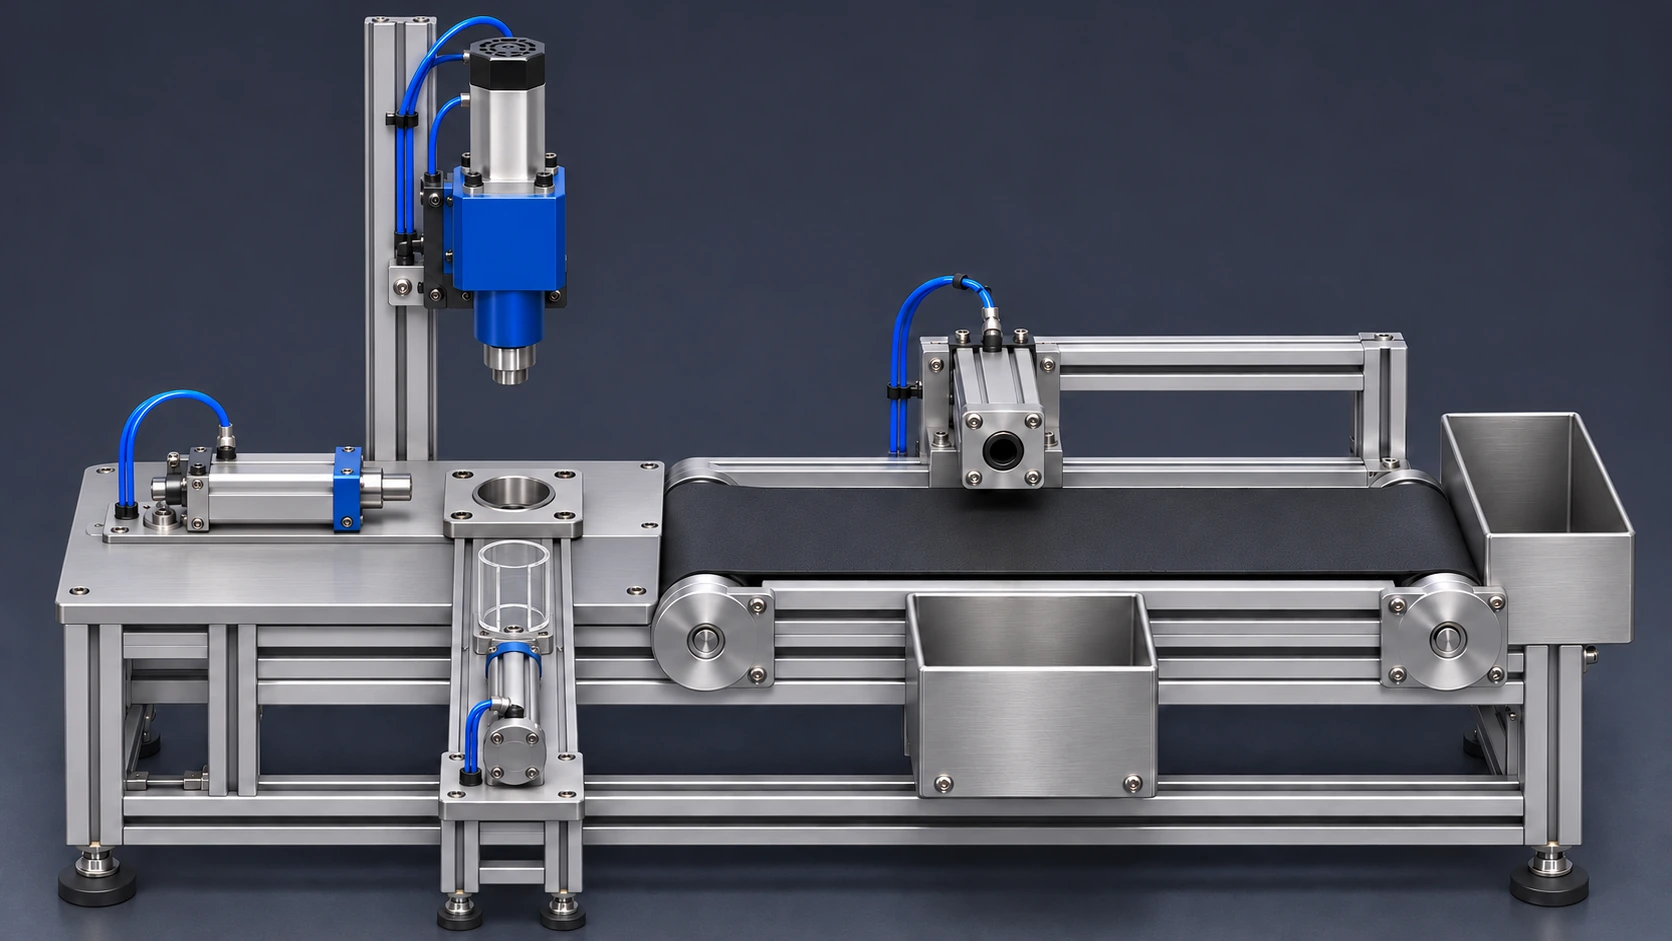
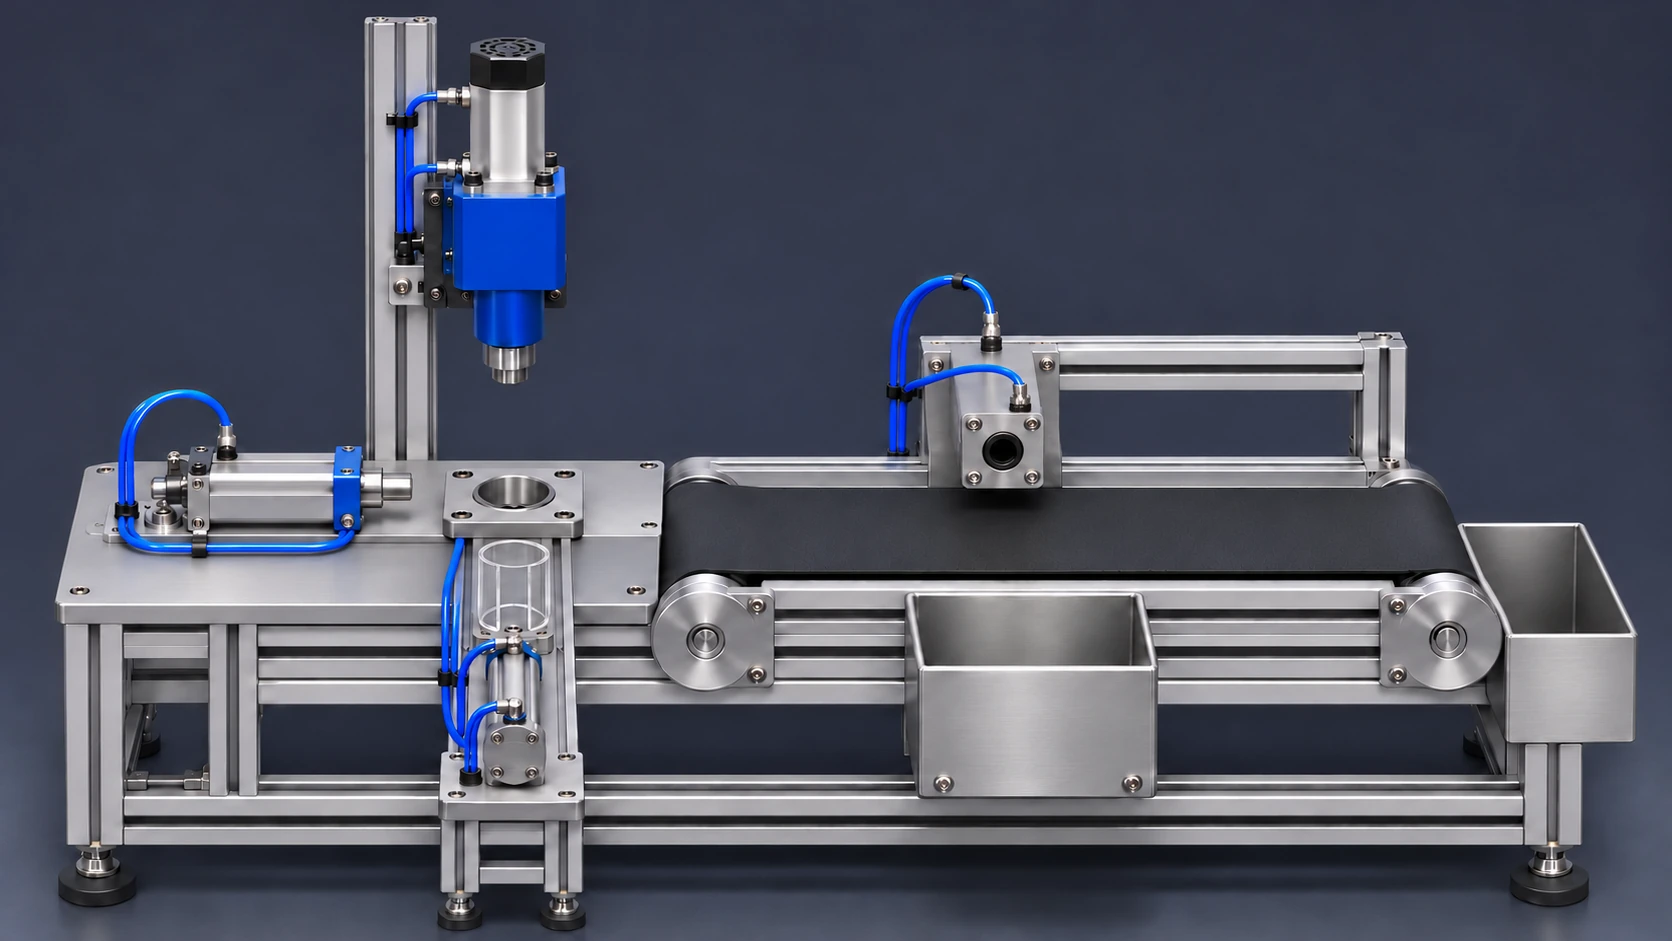
fix: 컨베이어 복동 호스와 끝 저장함 위치 개선 (Phase 39)

diff --git a/src/ui/equipment/ConveyorScene.tsx b/src/ui/equipment/ConveyorScene.tsx
@@ -39,6 +39,8 @@ function SensorFlag({ name, active, x, y, headX, headY, k = 1 }: {
 
 const beltLength = 1467 - inlet.x;
 const beltX = (progress: number) => inlet.x + beltLength * progress;
+// 끝 저장함의 앞 테두리와 낙하 종점 (Phase 39). 공작물은 앞 테두리 뒤로 사라진다.
+const endBin = { lipY: 636, landingX: 1563, landingY: 655 };
 // 분기 장치를 실제 접촉 위치로 옮긴다. 공작물의 이송 속도는 구간마다 같아야 한다.
 const gateOffset = 50;
 const pushFraction = (d: number) => Math.max(0, (d - 0.23) / 0.77);
@@ -116,7 +118,7 @@ const ZONE_BOX: Record<StationZone, [number, number, number, number]> = {
   belt: [470, 80, 1202, 676],
   supply: [130, 170, 760, 428],
   detect: [500, 200, 640, 360],
-  sort: [860, 210, 812, 457],
+  sort: [725, 210, 947, 533],
 };
 
 /** 공정 단계 (Phase 35) — 모니터의 단계 표시줄·자동 추적 카메라가 같은 판정을 쓴다 */
@@ -264,7 +266,7 @@ export function ConveyorScene({
       <linearGradient id={id+"-steel"}><stop stopColor="#565855"/><stop offset=".14" stopColor="#eeede8"/><stop offset=".35" stopColor="#a8aaa6"/><stop offset=".68" stopColor="#646765"/><stop offset=".9" stopColor="#cfd2cd"/><stop offset="1" stopColor="#5a5b56"/></linearGradient>
       <linearGradient id={id+"-cap"} x2=".8" y2="1"><stop stopColor="#898d89"/><stop offset=".45" stopColor="#f5f4ed"/><stop offset="1" stopColor="#929692"/></linearGradient>
       <clipPath id={id+"-side-rim"}><path d="M0 0 H1672 V668 H923 L908 594 H0Z" transform={`translate(${gateOffset})`}/></clipPath>
-      <clipPath id={id+"-end-rim"}><path d="M1380 385 H1640 V533 L1486 537 H1380Z"/></clipPath>
+      <clipPath id={id+"-end-rim"}><rect width={1672} height={endBin.lipY}/></clipPath>
       <image id={id+"-bed"} href={plate} width="1672" height="941"/>
       <linearGradient id={id+"-join"}><stop offset=".94" stopColor="white"/><stop offset="1" stopColor="black"/></linearGradient>
       <filter id={id+"-glow"} x="-50%" y="-50%" width="200%" height="200%"><feGaussianBlur stdDeviation="14"/></filter>
@@ -327,8 +329,8 @@ export function ConveyorScene({
     })}
     {station.falling.map((p,i) => {
       const end = p.destination === "store";
-      const x = end ? beltX(1)+70*p.fraction : beltX(p.progress)+7*p.fraction;
-      const y = end ? 530-20*p.fraction+55*p.fraction*p.fraction : 530+69*pushFraction(p.stroke)+116*p.fraction*p.fraction;
+      const x = end ? mix(beltX(1), endBin.landingX, p.fraction) : beltX(p.progress)+7*p.fraction;
+      const y = end ? mix(inlet.y, endBin.landingY, p.fraction ** 2) : 530+69*pushFraction(p.stroke)+116*p.fraction*p.fraction;
       return <g key={i} clipPath={paint(end ? "end-rim" : "side-rim")}>{puck(p.material,x,y,"drop",end ? "끝 저장" : "옆 배출",p.drilled)}</g>;
     })}
     {/* ∩ 상부 가로대가 벨트 폭을 건너며 용량형 헤드는 위에서 아래를 향한다. */}

diff --git a/src/styles.css b/src/styles.css
@@ -1164,8 +1164,7 @@ body,
 .station-camera {
   position: absolute;
   top: 10px;
-  left: 50%;
-  transform: translateX(-50%);
+  right: 10px;
   display: flex;
   gap: 2px;
   padding: 3px;

diff --git a/docs/ROADMAP.md b/docs/ROADMAP.md
@@ -1083,6 +1083,12 @@ PR #1(Phase 28~34)을 병합하고, 컨베이어 장비를 "더 효과적으로 
   간격으로, 패널 제목 대문자 변환 제거, 문구는 동작을 말하는 문장("공유압 회로 시작", "이어서 하기").
 - 테스트: 모드 판정·예제 분류·빈 컨베이어 과제 저장/재열기·빈 래더 실행, 스토어 모드 전환 (9건, 총 255).
 
+## Phase 39 — 컨베이어 실린더 복동 호스·끝 저장함 위치
+
+- 기존 고정 시점 배경을 이미지 생성으로 편집해 A·B·C·D의 양 끝 포트에 파란 호스를 한 가닥씩 연결했다.
+- 벨트 끝 저장함을 낮추고 SVG 공작물의 낙하 경로와 앞 테두리 가림을 맞췄다. 분류 확대 화면에도 저장함 전체가 들어오도록 조정했다.
+- 전체 화면에서 B 실린더 호스를 가리던 카메라 버튼 묶음을 사진 오른쪽 위로 옮겼다.
+
 ## 후순위 후보 (미확정)
 
 - 과제 모드 + 자동 검증 (요구 시퀀스 충족 판정, 채점)
